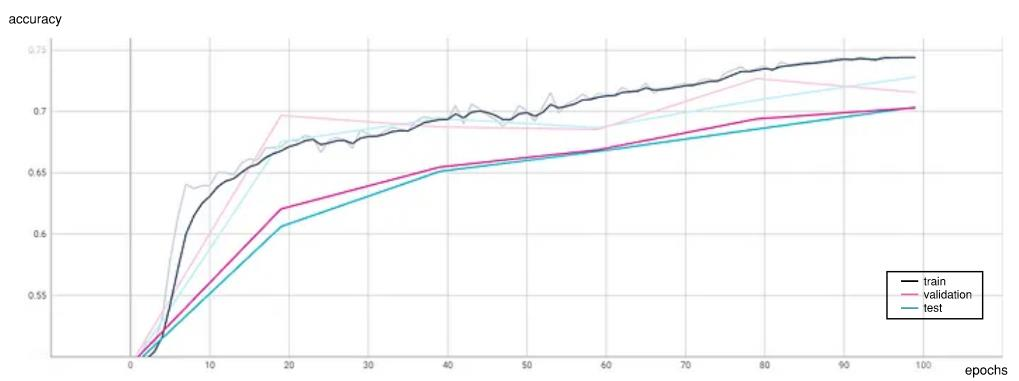
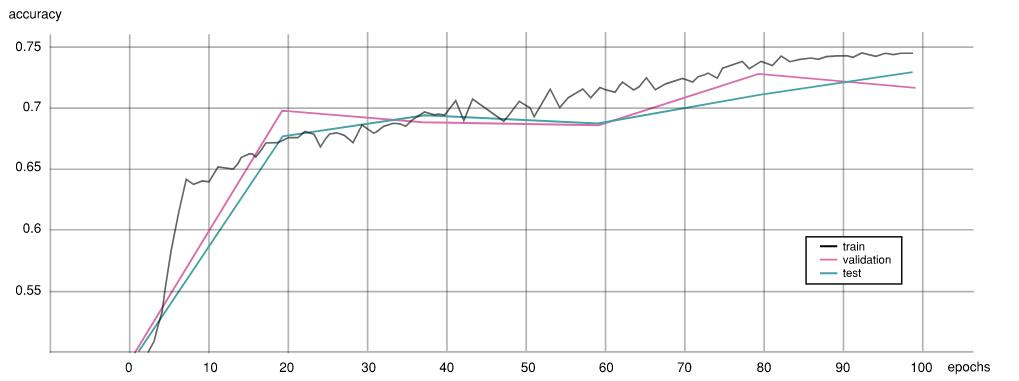
GNN image updates

Changed region(s): [[0.0, 0.0289, 1.0, 0.9816]]

diff --git a/projects/GNN_Project.html b/projects/GNN_Project.html
@@ -486,17 +486,12 @@ Optimization Algorithm: ['adam']</code></pre>
             effects such as batch normalization and aggregation function had
             negligible effects. For further analysis, we can plot the model
             performance on train (black), validation (blue) and test (pink)
-            data, note that faint lines represent the exact values while the
-            opque lines represent a moving average of the values. Through this
+            data, through this
             lens, we can see that this model may benefit from longer training,
-            since its learning curve has not yet flattened out. Additionally, we
-            can see that the training accuracy outpaces validation and test
-            accuracy, which remain very close to one another. This seems to
-            indicate high bias in the model, which is often addressable through
-            means of regularization. Therefore, it may be the case that smaller
-            dropout values may in fact yield better overall model performance
-            (unfortunately it appears we got overzealous with out dropout rate
-            of 0.4). In future tests this will be fine tuned more delicately.
+            since its learning curve has not yet flattened out. We can also see
+            good convergence between the training, validation, and testing accuracy,
+            indicating a high-performing model that does not appear to be suffering
+            from high bias or variance (yippee).
             <br />
             <br />
             <p>
@@ -581,7 +576,7 @@ Optimization Algorithm: ['adam']</code></pre>
             10(11):1339-1345, 2021. PMID: 35549019.
             <br />
             <br />
-            [2] Mochigase Lin Audus Olsen Rebello, Arora. Block Copolymer Phase
+            [2] Mochigase, Lin, Audus, Olsen, Rebello, Arora. Block Copolymer Phase
             Behavior Database (BCDB), 5 2021.
             <br />
             <br />
